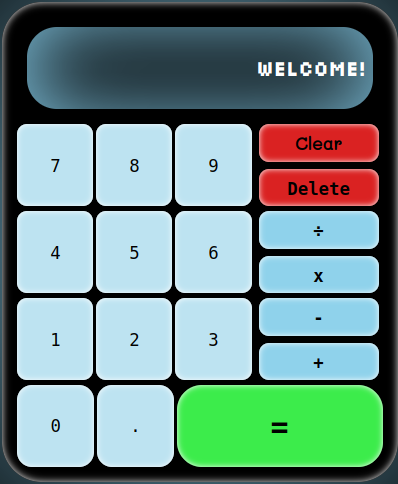
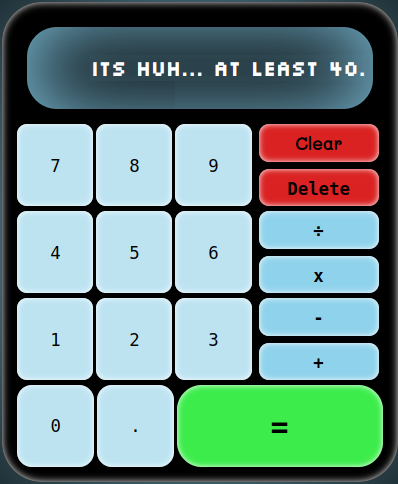
Updated UI design

Changed region(s): [[0.6332, 0.124, 0.9347, 0.155], [0.2111, 0.124, 0.5126, 0.155], [0.5427, 0.124, 0.603, 0.155]]

diff --git a/style.css b/style.css
@@ -1,10 +1,5 @@
-@import url('https://fonts.googleapis.com/css2?family=Silkscreen&display=swap');
 @import url('https://fonts.googleapis.com/css2?family=Shadows+Into+Light&display=swap');
-@import url('https://fonts.googleapis.com/css2?family=Uncial+Antiqua&display=swap');
-
-* {
-  font-family: Shadows Into Light;
-}
+@import url('https://fonts.googleapis.com/css2?family=IBM+Plex+Mono:wght@300&display=swap');
 
 html {
   display: flex;
@@ -16,7 +11,8 @@ body {
   max-height: 200vh;
   height: fit-content;
   background-color: #ba80e6;
-    flex: auto;
+  flex: auto;
+  font-family: Shadows Into Light;
 }
 
 #head {
@@ -25,6 +21,7 @@ body {
   height: 120px;
   background-color: #1b052c;
   box-shadow: 0px 0px 40px white;
+  font-family: Shadows Into Light;
 }
 
 
@@ -284,3 +281,4 @@ ul li {
   list-style: none;
   display: flex;
 }
+

diff --git a/recipe.css b/recipe.css
@@ -7,17 +7,19 @@
   }
   
   html {
-    display: flex;
-   
     box-sizing:border-box;
+    display: flex;
   }
   
   body {
     margin: 0;
     background-color: #9925F1;
     color: white;
-    flex: auto;
-    align-items: flex-start;
+    flex: 1;
+    display: flex;
+    flex-direction: column;
+    border: 3px red solid;
+    flex-wrap: wrap;
   }
 
   #head {
@@ -28,7 +30,7 @@
     padding-bottom: 3px;
     gap: 15px;
     margin: 0%;
-    
+    flex: 1;
   }
 
   #head h1 {
@@ -54,6 +56,7 @@
     margin-bottom: 50px;
     margin-top: 50px;
     border-radius: 8px;
+    flex: 1;
   }
 
   #middle h3 {
